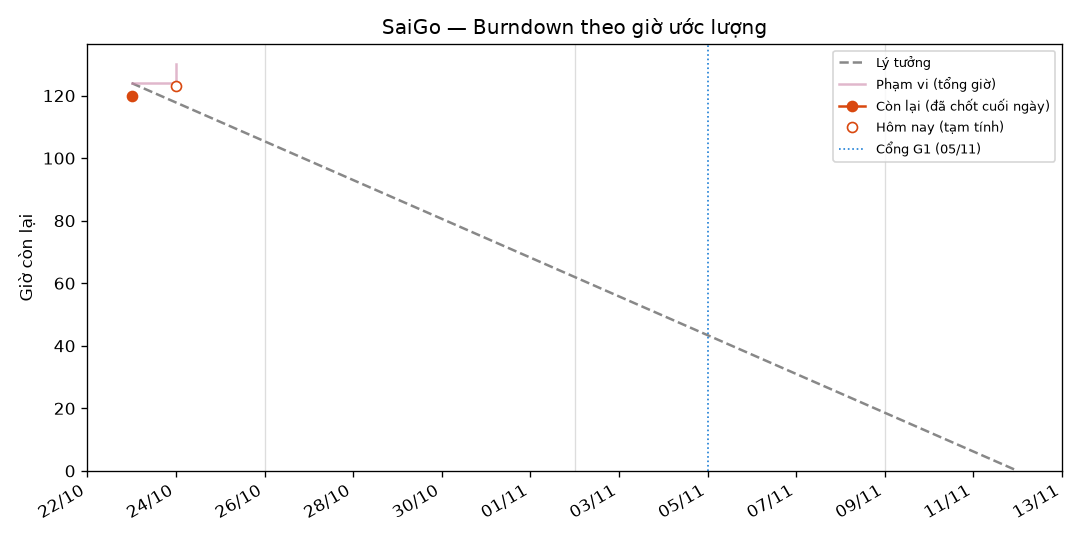
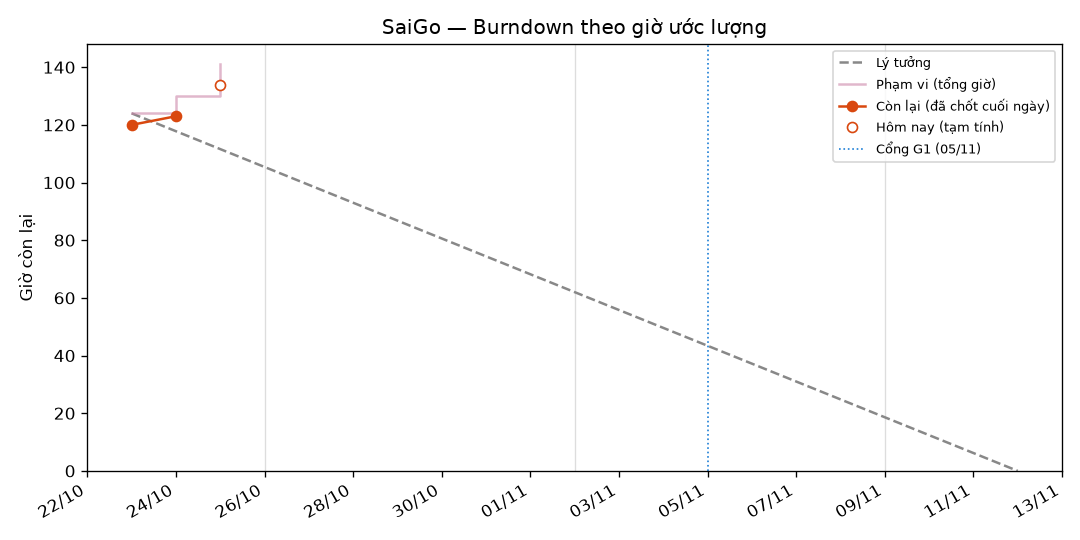
Cập nhật burndown 2026-10-25 02:32

diff --git a/REPORT.md b/REPORT.md
@@ -1,20 +1,20 @@
 ## 📉 Burndown SaiGo
 
-_Tự động cập nhật 02:57 24/10/2026 (giờ VN) bởi workflow `tracking.yml` từ trạng thái issue/PR thật. Số những ngày đã qua được chốt cuối ngày và không bị sửa lại; số hôm nay là tạm tính. Cách tính ở đầu file `scripts/tracking/burndown.py`._
+_Tự động cập nhật 02:32 25/10/2026 (giờ VN) bởi workflow `tracking.yml` từ trạng thái issue/PR thật. Số những ngày đã qua được chốt cuối ngày và không bị sửa lại; số hôm nay là tạm tính. Cách tính ở đầu file `scripts/tracking/burndown.py`._
 
-![Burndown](https://raw.githubusercontent.com/NeitLN/SaiGGo/tracking/burndown.png?v=40015390884)
+![Burndown](https://raw.githubusercontent.com/NeitLN/SaiGGo/tracking/burndown.png?v=40125736524)
 
-- **Phạm vi hiện tại:** 130 giờ ước lượng, 42 task
-- **Đã đóng:** 7 giờ — có bằng chứng (PR/commit) 7 giờ · **Còn lại:** 123 giờ, 40 task mở
-- **Đường lý tưởng hôm nay:** 117.8 giờ → **chậm** hơn kế hoạch 5.2 giờ
+- **Phạm vi hiện tại:** 141 giờ ước lượng, 46 task
+- **Đã đóng:** 7 giờ — có bằng chứng (PR/commit) 7 giờ · **Còn lại:** 134 giờ, 44 task mở
+- **Đường lý tưởng hôm nay:** 111.6 giờ → **chậm** hơn kế hoạch 22.4 giờ
 - Mốc: cổng G1 05/11 · final ready 12/11 · thuyết trình 19/11 · nộp 22/11
 
 ### Theo tuần
 
 | Tuần | Giờ đến hạn | Giờ hoàn thành | Task xong | Còn lại cuối tuần | PR merge | Lượt review |
 |---|---:|---:|---:|---:|---:|---:|
-| Tuần 1 · 19–25/10 | 24 | 7 | 2 | 123 | 1 | 1 |
-| Tuần 2 · 26/10–01/11 | 39 | 0 | 0 | — | 0 | 0 |
+| Tuần 1 · 19–25/10 | 27 | 7 | 2 | 134 | 1 | 4 |
+| Tuần 2 · 26/10–01/11 | 47 | 0 | 0 | — | 0 | 0 |
 | Tuần 3 · 02–08/11 | 50 | 0 | 0 | — | 0 | 0 |
 | Tuần 4 · 09–15/11 | 17 | 0 | 0 | — | 0 | 0 |
 
@@ -22,10 +22,10 @@ _Tự động cập nhật 02:57 24/10/2026 (giờ VN) bởi workflow `tracking.
 
 | Thành viên | Giờ được giao | Giờ hoàn thành có bằng chứng | Task xong | Đóng tay | Task mở | PR đã merge | PR đã review (có nội dung) |
 |---|---:|---:|---:|---:|---:|---:|---:|
-| Bảo (@dobaovlu) | 17.2 | 0.0 | 0 | 0 | 8 | 0 | 0 |
+| Bảo (@dobaovlu) | 19.2 | 0.0 | 0 | 0 | 9 | 0 | 0 |
 | Duy Anh (@anh7032) | 28.8 | 0.0 | 0 | 0 | 11 | 0 | 0 |
-| Minh (@Jayson135724) | 30.8 | 0.0 | 0 | 0 | 13 | 0 | 1 |
-| Tiến (@NeitLN) | 53.2 | 7.0 | 2 | 0 | 18 | 1 | 0 |
+| Minh (@Jayson135724) | 33.8 | 0.0 | 0 | 0 | 14 | 0 | 2 |
+| Tiến (@NeitLN) | 59.2 | 7.0 | 2 | 0 | 20 | 1 | 2 |
 
 ### Đóng trong 7 ngày qua
 
